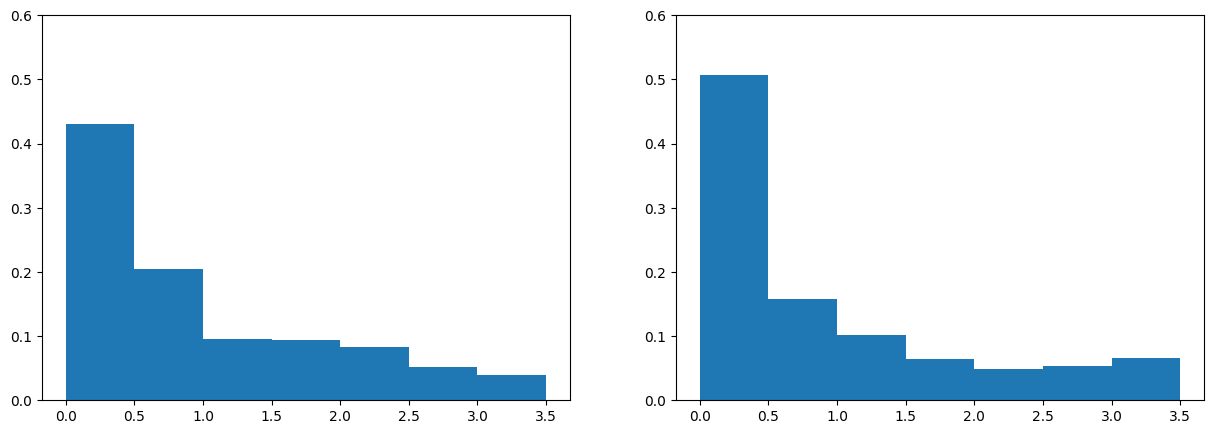
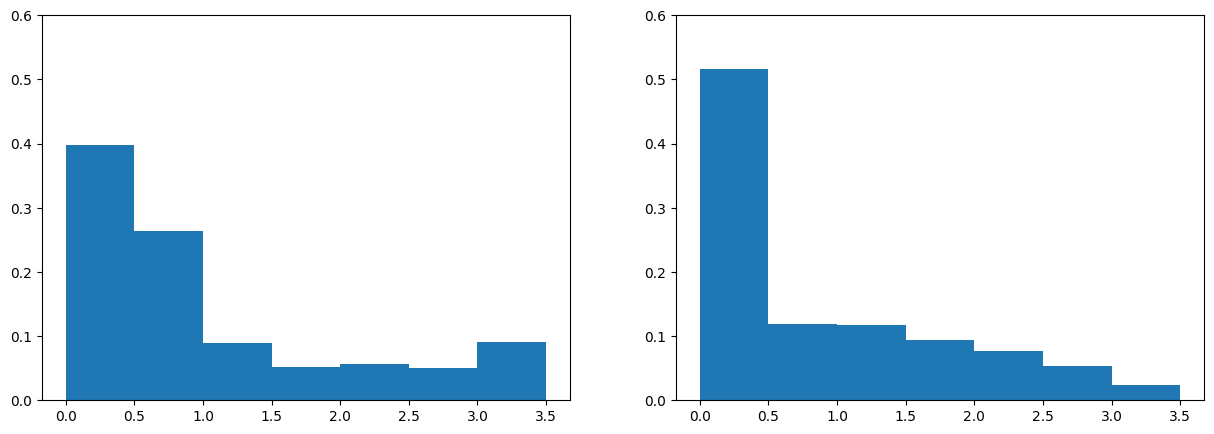
runnable

diff --git a/src/rl_pipeline/run_experiment.py b/src/rl_pipeline/run_experiment.py
@@ -32,13 +32,13 @@ def main(cfg):
 
     if cfg.agent_type == ('SGD' or 'Random' or 'LOLA'):
         agents = [agent(num_actions=env.num_nodes, learning_rate=cfg.learning_rate,
-                            agent_id=env.possible_agents[i], exploration=exploration
-                            ) for i in range(num_agents)]
+                            agent_id=env.possible_agents[i], exploration=exploration, 
+                            batch_size=cfg.batch_size) for i in range(num_agents)]
         train(env, agents, num_episodes=num_episodes, episode_length=episode_length,
                         agent_ids=env.possible_agents)
         
     else:
-        agents = [agent(num_actions=env.num_nodes, num_states=env.num_nodes, 
+        agents = [agent(num_actions=env.num_nodes,
                         learning_rate=cfg.learning_rate, agent_id=env.possible_agents[i], 
                         batch_size=cfg.batch_size) for i in range(num_agents)]
         train(env, agents, num_episodes=num_episodes, episode_length=episode_length,

diff --git a/src/rl_pipeline/ska_env.py b/src/rl_pipeline/ska_env.py
@@ -82,13 +82,14 @@ class InterferometerEnv(AECEnv):
 
     def observe(self, agent):
         return np.array(self.observations[agent])
-    
+
     def calculate_rewards(self):
+        avg_hist = np.mean(self.hists, axis=0)
         for n in range(self.num_agents): # Update rewards
-            jensen_shannon = compute_jensen(self.hists[0], self.hists[1]) # Symmetric
-            self.rewards[self.agents[n]] = - jensen_shannon #-MSE(array_sensitivity, self.target_sensitivity) - \
-             #                               MSE(array_resolution, self.target_resolution)
-        wandb.log({"J-S Divergence": jensen_shannon})
+            jensen_shannon = compute_jensen(self.hists[n], avg_hist) # Symmetric
+            import pdb; pdb.set_trace()
+            self.rewards[self.agents[n]] -= jensen_shannon
+        #wandb.log({"J-S Divergence": jensen_shannon})
         return #array_sensitivity, array_resolution
 
     def close(self):

diff --git a/src/rl_pipeline/train_agents.py b/src/rl_pipeline/train_agents.py
@@ -47,8 +47,8 @@ def train_LOLA(env, agents, num_episodes, episode_length, agent_ids):
                 total_rewards[i] += list(reward.values())[i]
         env.close()
 
-        wandb.log({'{0} Episode Reward'.format(agent_ids[i]): total_rewards[i] for i in range(num_agents)})
-        print(f"Episode {episode+1}/{num_episodes}, Total Rewards: {total_rewards}")
+        wandb.log({'{0} Episode Reward'.format(agent_ids[i]): total_rewards[i]/episode_length for i in range(num_agents)})
+        print(f"Episode {episode+1}/{num_episodes}, Total Rewards: {total_rewards/episode_length}")
 
 
 def train_PPO(env, agents, num_episodes, episode_length, agent_ids):
